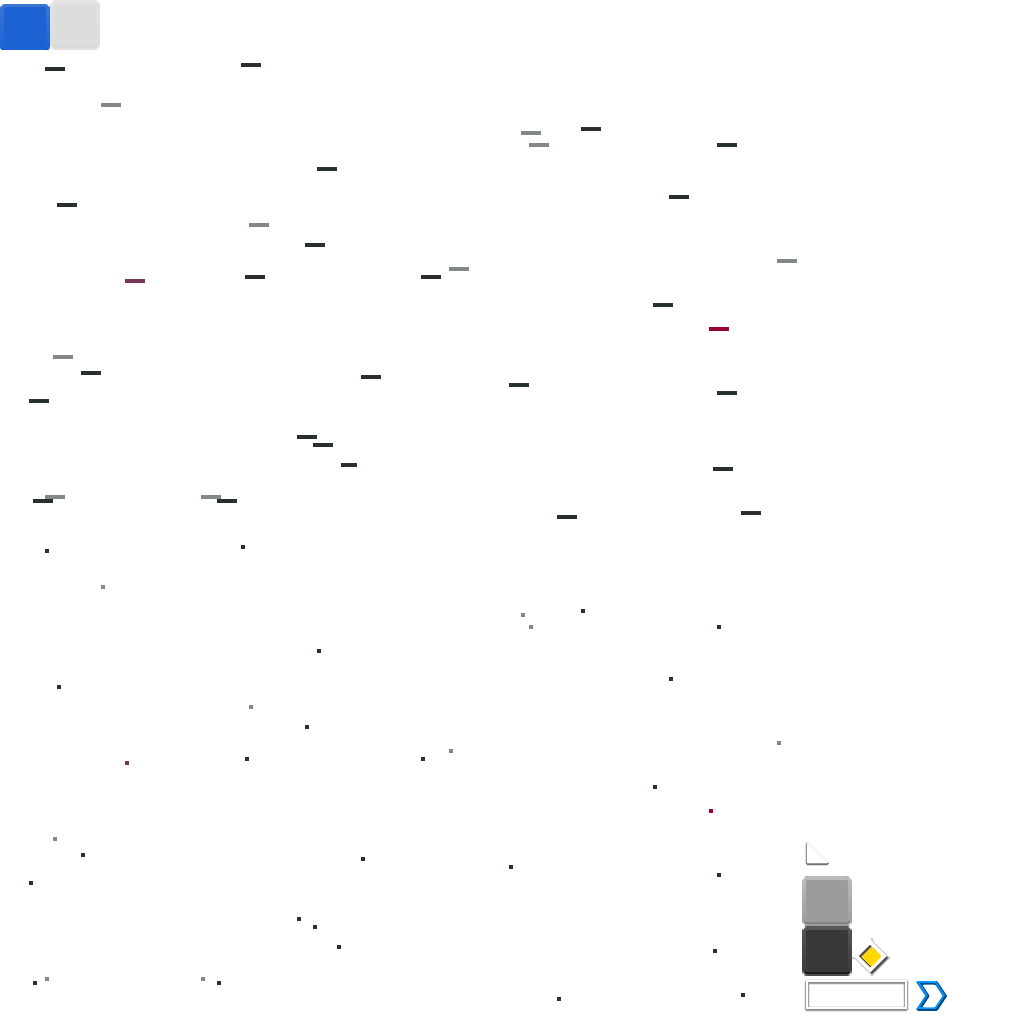
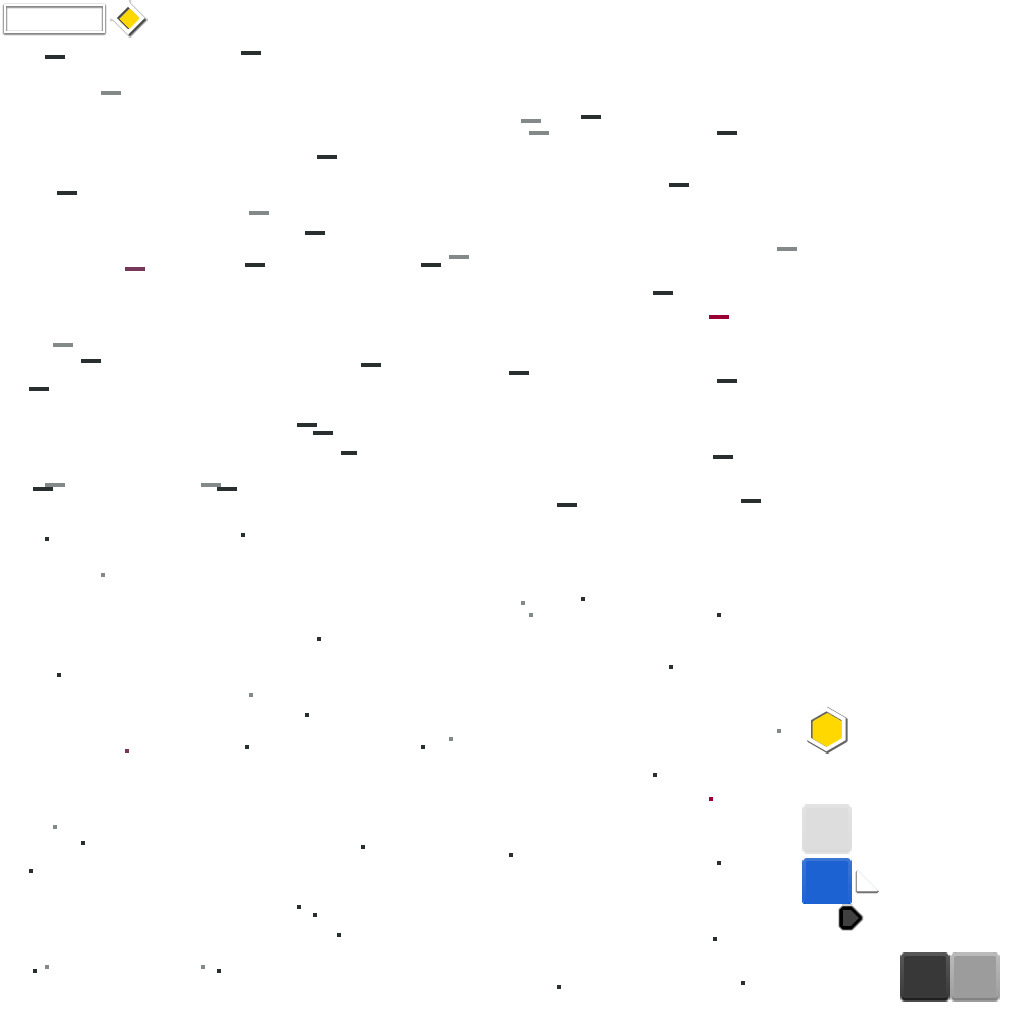
CurrentLocation animation, edit pixel dimensions

diff --git a/core/src/galenscovell/oregontrail/map/Tile.java b/core/src/galenscovell/oregontrail/map/Tile.java
@@ -71,6 +71,10 @@ public class Tile extends Actor {
     }
 
     public void becomeCurrent() {
+        ResourceManager.currentMarker.setTarget(
+            (x + 8) * Constants.TILESIZE - 36,
+            Gdx.graphics.getHeight() - (y + 4) * Constants.TILESIZE - 32
+        );
         type = TileType.CURRENT;
     }
 
@@ -79,7 +83,7 @@ public class Tile extends Actor {
     }
 
     public void becomeUnexplored() {
-        sprite = new Sprite(ResourceManager.uiAtlas.createSprite("map_diamond"));
+        sprite = new Sprite(ResourceManager.uiAtlas.createSprite("map_hexagon"));
         type = TileType.UNEXPLORED;
     }
 
@@ -93,7 +97,7 @@ public class Tile extends Actor {
             return;
         }
 
-        // Glow animation
+        // Glow
         if (glowUp) {
             frames++;
         } else {
@@ -108,42 +112,48 @@ public class Tile extends Actor {
         batch.setColor(0.3f, 0.8f, 1, frameAlpha);
         batch.draw(
             ResourceManager.mapGlow,
-            (x + 11) * Constants.TILESIZE - 6,
-            Gdx.graphics.getHeight() - (y + 5) * Constants.TILESIZE + 1,
-            Constants.TILESIZE + 10,
-            Constants.TILESIZE + 10
+            (x + 8) * Constants.TILESIZE - 12,
+            Gdx.graphics.getHeight() - (y + 4) * Constants.TILESIZE - 6,
+            Constants.TILESIZE * 2,
+            Constants.TILESIZE * 2
         );
         batch.setColor(1, 1, 1, 1);
 
-        // Selected graphics
+        // Map location
+        if (isExplored()) {
+            batch.setColor(0.5f, 0.6f, 1.0f, 1.0f);
+            batch.draw(
+                sprite,
+                (x + 8) * Constants.TILESIZE,
+                Gdx.graphics.getHeight() - (y + 4) * Constants.TILESIZE + 5,
+                Constants.TILESIZE,
+                Constants.TILESIZE
+            );
+            batch.setColor(1, 1, 1, 1);
+        } else {
+            batch.draw(
+                sprite,
+                (x + 8) * Constants.TILESIZE,
+                Gdx.graphics.getHeight() - (y + 4) * Constants.TILESIZE + 5,
+                Constants.TILESIZE,
+                Constants.TILESIZE
+            );
+        }
+
+        // Current
+        if (isCurrent()) {
+            ResourceManager.currentMarker.render(batch);
+        }
+
+        // Selected
         if (selected) {
             batch.draw(
                 ResourceManager.mapSelect,
-                (x + 12) * Constants.TILESIZE - 4,
-                Gdx.graphics.getHeight() - (y + 4) * Constants.TILESIZE,
+                (x + 9) * Constants.TILESIZE - 4,
+                Gdx.graphics.getHeight() - (y + 3) * Constants.TILESIZE,
                 Constants.TILESIZE - 2,
                 Constants.TILESIZE - 2
             );
         }
-
-        // Current location graphics
-        if (isCurrent()) {
-            batch.setColor(0.5f, 1.0f, 0.6f, 1.0f);
-        }
-
-        // Explored location graphics
-        if (isExplored()) {
-            batch.setColor(0.5f, 0.6f, 1.0f, 1.0f);
-        }
-
-        // Map pointer graphics
-        batch.draw(
-            sprite,
-            (x + 11) * Constants.TILESIZE,
-            Gdx.graphics.getHeight() - (y + 5) * Constants.TILESIZE + 5,
-            Constants.TILESIZE,
-            Constants.TILESIZE
-        );
-        batch.setColor(1, 1, 1, 1);
     }
 }

diff --git a/core/src/galenscovell/oregontrail/util/ResourceManager.java b/core/src/galenscovell/oregontrail/util/ResourceManager.java
@@ -12,6 +12,7 @@ import com.badlogic.gdx.graphics.g2d.freetype.FreetypeFontLoader.FreeTypeFontLoa
 import com.badlogic.gdx.scenes.scene2d.ui.Label.LabelStyle;
 import com.badlogic.gdx.scenes.scene2d.ui.TextButton.TextButtonStyle;
 import com.badlogic.gdx.scenes.scene2d.utils.NinePatchDrawable;
+import galenscovell.oregontrail.graphics.CurrentLocationAnimation;
 
 public class ResourceManager {
     public static AssetManager assetManager;
@@ -20,6 +21,7 @@ public class ResourceManager {
     public static NinePatchDrawable buttonUp, buttonDown, mapback;
     public static TextButtonStyle button_fullStyle;
     public static Sprite mapGlow, mapSelect;
+    public static CurrentLocationAnimation currentMarker;
     public static Preferences prefs;
 
     public static void create() {
@@ -48,6 +50,7 @@ public class ResourceManager {
         loadLabelStyles();
         loadButtonStyles();
         loadSprites();
+        loadAnimations();
 
 //        // Load user preferences
 //        prefs = Gdx.app.getPreferences("flicker_settings");
@@ -102,5 +105,9 @@ public class ResourceManager {
 //        highlightBlue.flip(false, true);
 //        highlightOrange = new Sprite(uiAtlas.createSprite("highlight_orange"));
 //        highlightOrange.flip(false, true);
+    }
+
+    private static void loadAnimations() {
+        currentMarker = new CurrentLocationAnimation();
     }
 }

diff --git a/core/src/galenscovell/oregontrail/graphics/CurrentLocationAnimation.java b/core/src/galenscovell/oregontrail/graphics/CurrentLocationAnimation.java
@@ -1,0 +1,30 @@
+package galenscovell.oregontrail.graphics;
+
+import com.badlogic.gdx.graphics.g2d.*;
+import galenscovell.oregontrail.util.*;
+
+public class CurrentLocationAnimation {
+    private TextureRegion sprite;
+    private float frame, size;
+    private int x, y;
+
+    public CurrentLocationAnimation() {
+        this.sprite = new Sprite(ResourceManager.uiAtlas.findRegion("current_marker"));
+        this.size = Constants.TILESIZE * 4;
+        this.frame = 0.0f;
+    }
+
+    public void setTarget(int x, int y) {
+        this.x = x;
+        this.y = y;
+    }
+
+    public void render(Batch batch) {
+        batch.draw(sprite, x, y, size / 2, size / 2, size, size, 1, 1, -frame);
+        if (frame < 360) {
+            frame += 0.5f;
+        } else {
+            frame = 0;
+        }
+    }
+}

diff --git a/core/src/galenscovell/oregontrail/ui/components/NavigationMap.java b/core/src/galenscovell/oregontrail/ui/components/NavigationMap.java
@@ -2,10 +2,9 @@ package galenscovell.oregontrail.ui.components;
 
 import com.badlogic.gdx.scenes.scene2d.InputEvent;
 import com.badlogic.gdx.scenes.scene2d.ui.*;
-
 import com.badlogic.gdx.scenes.scene2d.utils.*;
-import galenscovell.oregontrail.util.*;
 import galenscovell.oregontrail.map.*;
+import galenscovell.oregontrail.util.*;
 
 public class NavigationMap extends Table {
     private final GameStage gameStage;
@@ -14,7 +13,7 @@ public class NavigationMap extends Table {
 
     public NavigationMap(GameStage gameStage) {
         this.gameStage = gameStage;
-        this.mapGenerator = new MapGenerator(16);
+        this.mapGenerator = new MapGenerator(12);
         this.repo = mapGenerator.getRepo();
         construct();
     }

diff --git a/core/src/galenscovell/oregontrail/util/Constants.java b/core/src/galenscovell/oregontrail/util/Constants.java
@@ -17,9 +17,9 @@ public class Constants {
     public static final int EXACT_Y = 480;
 
     // Map dimensions
-    public static final int MAPWIDTH = 32;  // 576px @ 18px
-    public static final int MAPHEIGHT = 22; // 396px @ 18px
-    public static final int TILESIZE = 18;
+    public static final int MAPWIDTH = 24;  // 576px @ 24px
+    public static final int MAPHEIGHT = 16; // 384px @ 24px
+    public static final int TILESIZE = 24;
     public static final int MAPBORDERWIDTH = (MAPWIDTH * TILESIZE) + 22;   // 598px
-    public static final int MAPBORDERHEIGHT = (MAPHEIGHT * TILESIZE) + 20; // 416px
+    public static final int MAPBORDERHEIGHT = (MAPHEIGHT * TILESIZE) + 20; // 404px
 }

diff --git a/core/src/galenscovell/oregontrail/map/MapGenerator.java b/core/src/galenscovell/oregontrail/map/MapGenerator.java
@@ -57,8 +57,8 @@ public class MapGenerator {
         // Place random Destinations, ensuring that they do not collide
         this.destinations = new ArrayList<Destination>();
         for (int i = 0; i < destinationCount; i++) {
-            int randomX = getRandom(1, Constants.MAPWIDTH);
-            int randomY = getRandom(1, Constants.MAPHEIGHT);
+            int randomX = getRandom(2, Constants.MAPWIDTH - 2);
+            int randomY = getRandom(2, Constants.MAPHEIGHT - 2);
             this.destinations.add(new Destination(randomX, randomY, grid[randomY][randomX]));
         }
     }
